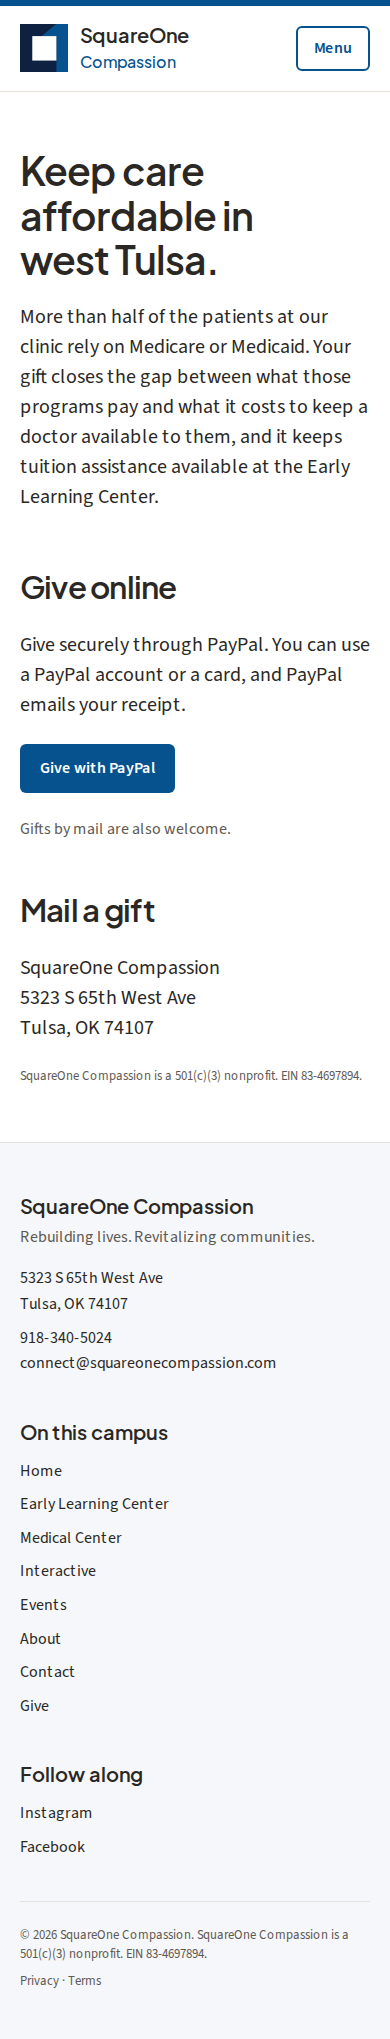
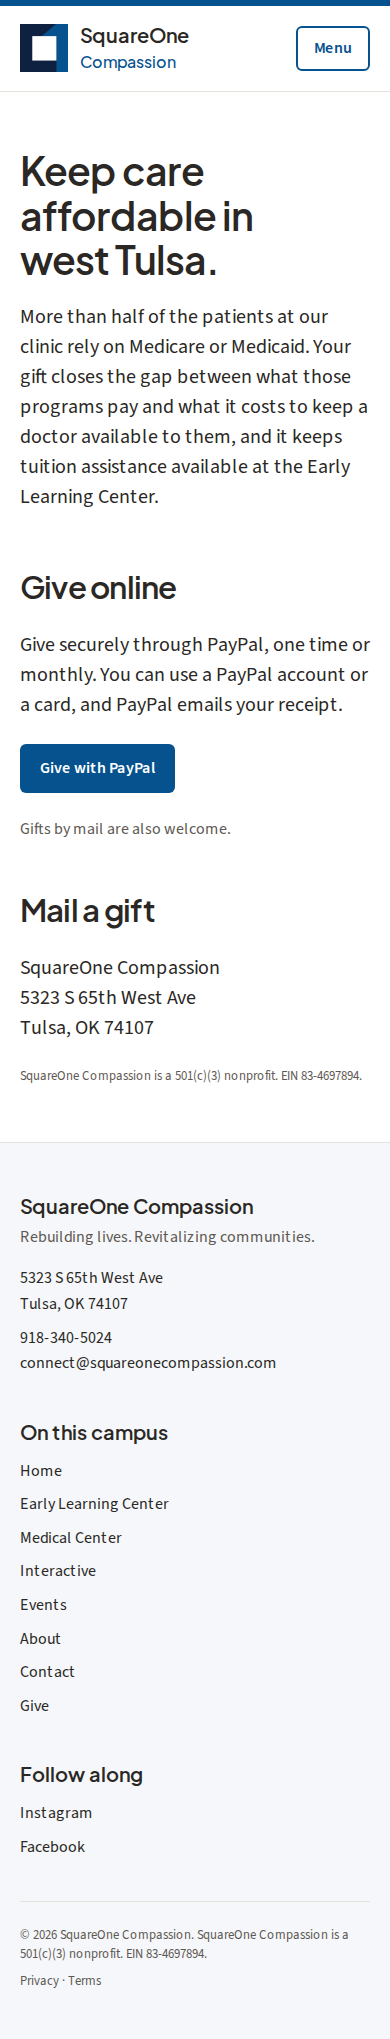
Switch the Give page to the PayPal Donate button link
The Donate button lets donors choose one-time or monthly on PayPal's
page, replacing the one-time payment link.

Claude-Session: https://claude.ai/code/session_01Dy1NBE1CDjARVuM4emY1ru

Changed region(s): [[0.0615, 0.309, 0.4923, 0.3708], [0.5231, 0.309, 0.9538, 0.3708]]

diff --git a/lib/site.ts b/lib/site.ts
@@ -30,8 +30,8 @@ export const ORG = {
   // Form 990 filings by EIN. ProPublica's Nonprofit Explorer lists every year and updates itself as the IRS releases new filings.
   financialsUrl: 'https://projects.propublica.org/nonprofits/organizations/834697894',
   irsSearchUrl: 'https://apps.irs.gov/app/eos/',
-  // PayPal hosted payment link (public; only lets people send money to SquareOne).
-  paypalUrl: 'https://www.paypal.com/ncp/payment/ZNYFBGZVG3V3G',
+  // PayPal Donate button (public; only lets people send money to SquareOne). Donors choose one-time or monthly on PayPal's page.
+  paypalUrl: 'https://www.paypal.com/donate/?hosted_button_id=9S8TBZ2Q3A8VU',
   instagram: 'https://instagram.com/squareonecompassion',
   facebook: 'https://www.facebook.com/squareonecompassion',
 }

diff --git a/app/give/page.tsx b/app/give/page.tsx
@@ -33,7 +33,7 @@ export default function GivePage() {
                 </>
               ) : (
                 <div className="max-w-prose">
-                  <p className="text-lg">Give securely through PayPal. You can use a PayPal account or a card, and PayPal emails your receipt.</p>
+                  <p className="text-lg">Give securely through PayPal, one time or monthly. You can use a PayPal account or a card, and PayPal emails your receipt.</p>
                   <p className="mt-6">
                     <a href={ORG.paypalUrl} className="btn-primary" rel="noopener">
                       Give with PayPal

diff --git a/content/COPY.md b/content/COPY.md
@@ -335,7 +335,7 @@ Tulsa, OK 74107
 
 **Thank-you page:** Thank you. Your gift is already at work on our campus. A receipt is on its way to your inbox.
 
-**PayPal (live now):** Give securely through PayPal. You can use a PayPal account or a card, and PayPal emails your receipt. Button: Give with PayPal → https://www.paypal.com/ncp/payment/ZNYFBGZVG3V3G. Gifts by mail are also welcome.
+**PayPal (live now):** Give securely through PayPal, one time or monthly. You can use a PayPal account or a card, and PayPal emails your receipt. Button: Give with PayPal → https://www.paypal.com/donate/?hosted_button_id=9S8TBZ2Q3A8VU (Donate button; donors pick one-time or monthly on PayPal). Gifts by mail are also welcome.
 
 When Stripe is configured, the Stripe form shows first and PayPal appears beneath it as "Prefer PayPal? Give with PayPal."
 
